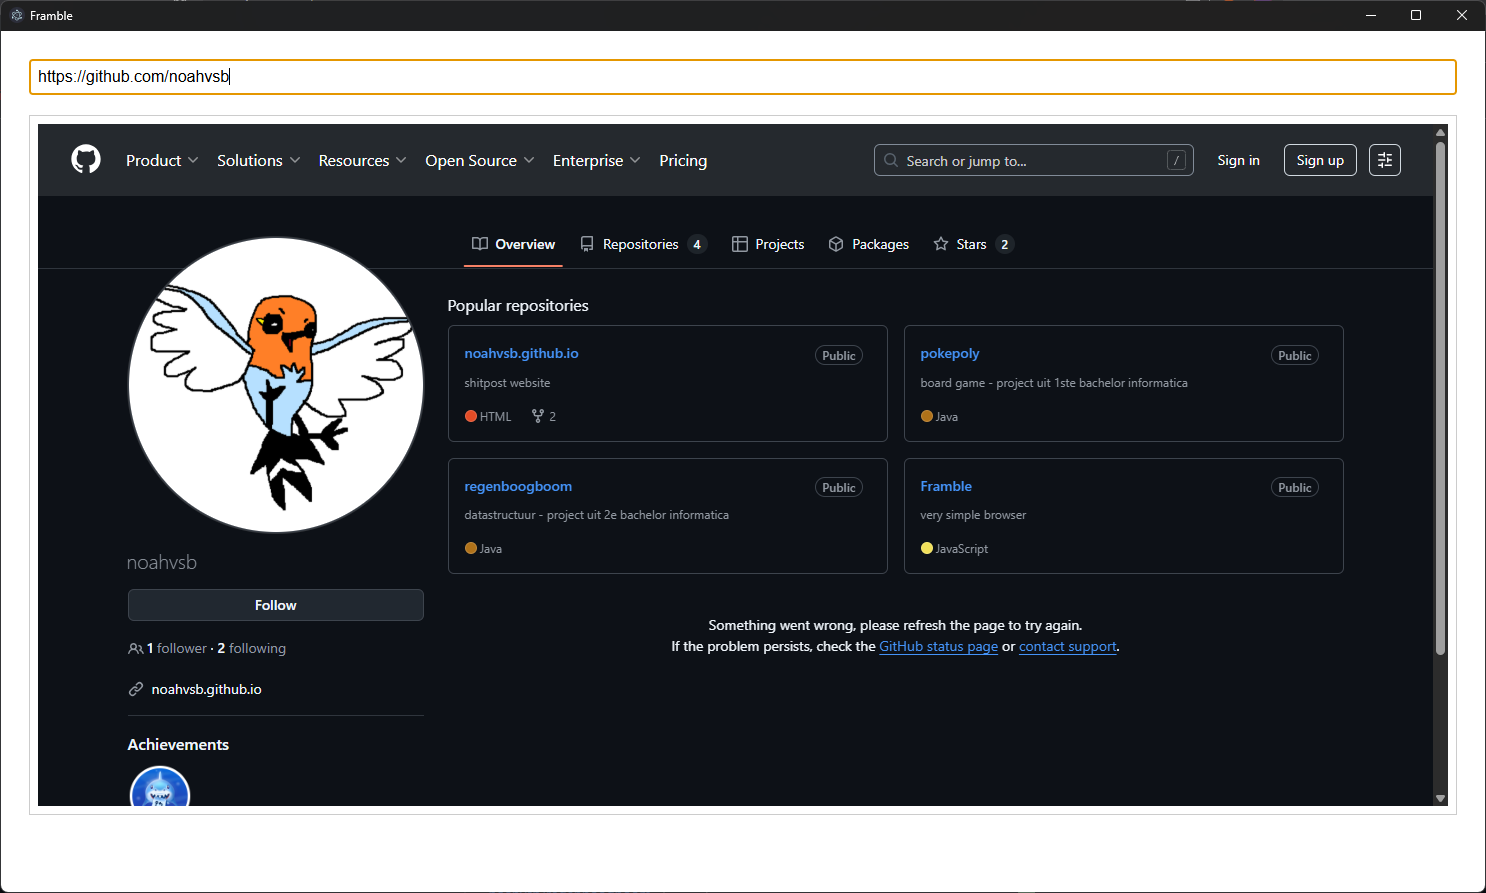
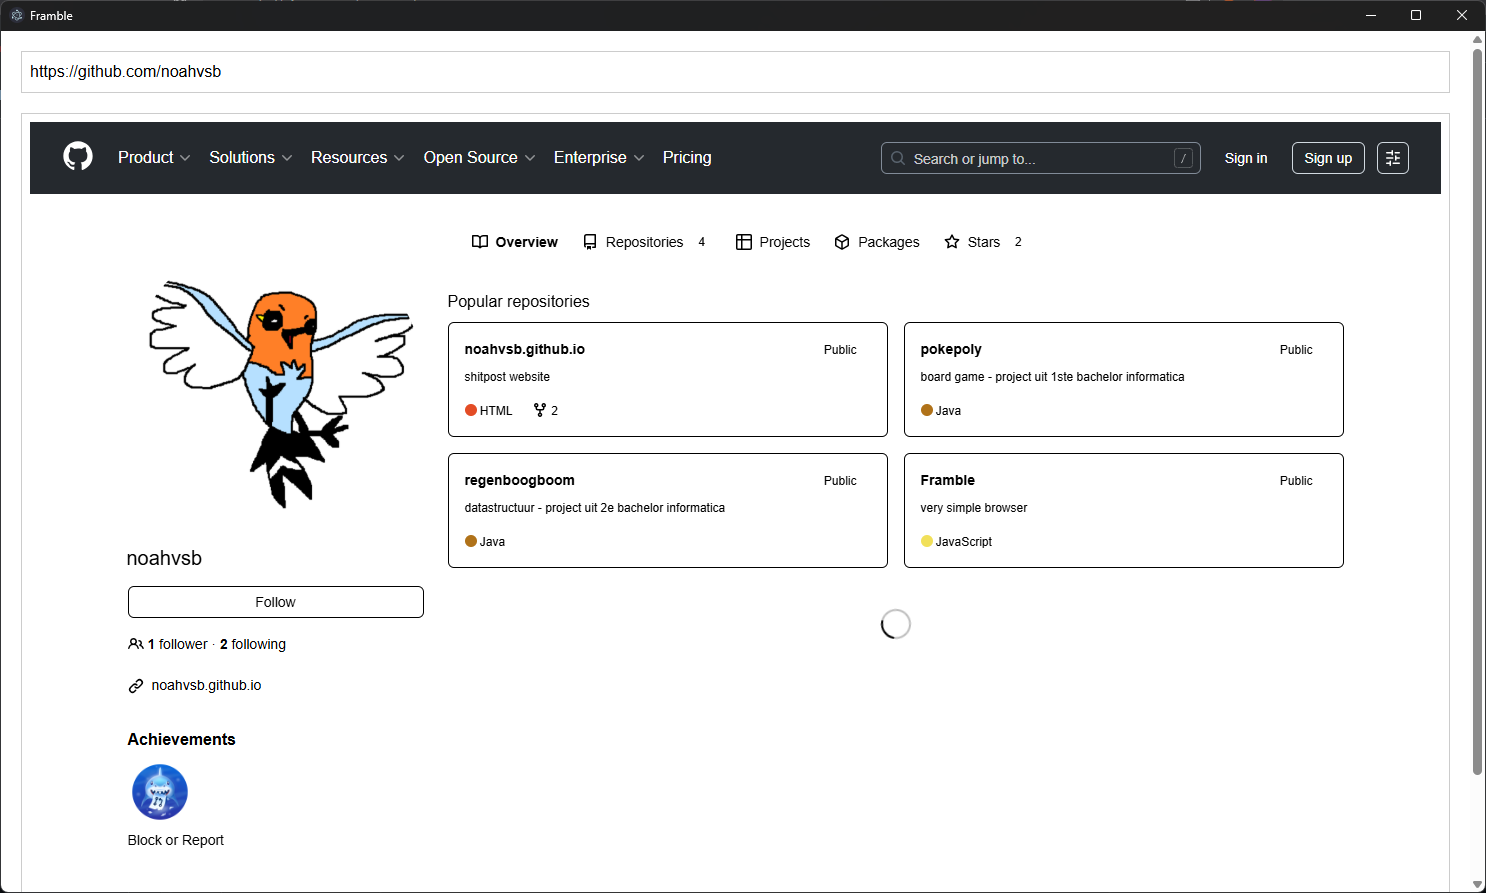
used div with innerHTML instead of iframe to handle a href hyperlinks

diff --git a/src/renderer.js b/src/renderer.js
@@ -1,27 +1,49 @@
 const addressBar = document.getElementById('addressBar');
-const renderFrame = document.getElementById('renderFrame');
+const content = document.getElementById('content');
+
+async function renderPage(url) {
+    try {
+        content.innerHTML = `
+            <h1>Loading...</h1>
+        `;
+
+        const response = await fetch(url);
+          
+        if (!response.ok) {
+            content.innerHTML = `
+                <h1>${response.status}</h1>
+                <p>${response.statusText}</p>
+            `;
+        } else {
+            const html = await response.text();
+
+            content.innerHTML = html;
+
+            // handle hyperlinks
+            content.querySelectorAll('a').forEach(anchor => {
+                anchor.addEventListener('click', (e) => {
+                    e.preventDefault();
+                    const href = anchor.getAttribute('href');
+                    if (href && !href.startsWith('javascript:')) {
+                        const newUrl = new URL(href, url).toString();
+                        addressBar.value = newUrl;
+                        renderPage(newUrl);
+                    }
+                });
+            });
+        }
+    } catch (error) {
+        content.innerHTML = `
+            <h1>Error</h1>
+            <p>${error.message}</p>
+        `;
+    }
+}
 
 addressBar.addEventListener('keydown', async (e) => {
     if (e.key === 'Enter') {
         const url = addressBar.value.trim();
         
-        try {
-            const response = await fetch(url);
-            
-            if (!response.ok) {
-                renderFrame.srcdoc = `
-                    <h1>${response.status}</h1>
-                    <p>${response.statusText}</p>
-                `;
-            } else {
-                const html = await response.text();
-                renderFrame.srcdoc = html;
-            }
-        } catch (error) {
-            renderFrame.srcdoc = `
-                <h1>Error</h1>
-                <p>${error.message}</p>
-            `;
-        }
+        renderPage(url);
     }
 });

diff --git a/index.html b/index.html
@@ -9,9 +9,7 @@
   <div class="navigation">
     <input class="container" id="addressBar" autofocus />
   </div>
-  <div class="content">
-    <iframe class="container" id="renderFrame"></iframe>
-  </div>
+  <div class="container" id="content"></div>
 
   <script src="src/renderer.js"></script>
 </body>

diff --git a/assets/css/main.css b/assets/css/main.css
@@ -15,9 +15,11 @@ body {
 }
 
 #addressBar {
+    min-width: 100%;
     font-size: 16px;
 }
 
-#renderFrame {
-    height: 700px;
+#content {
+    min-width: 100%;
+    min-height: 700px;
 }
